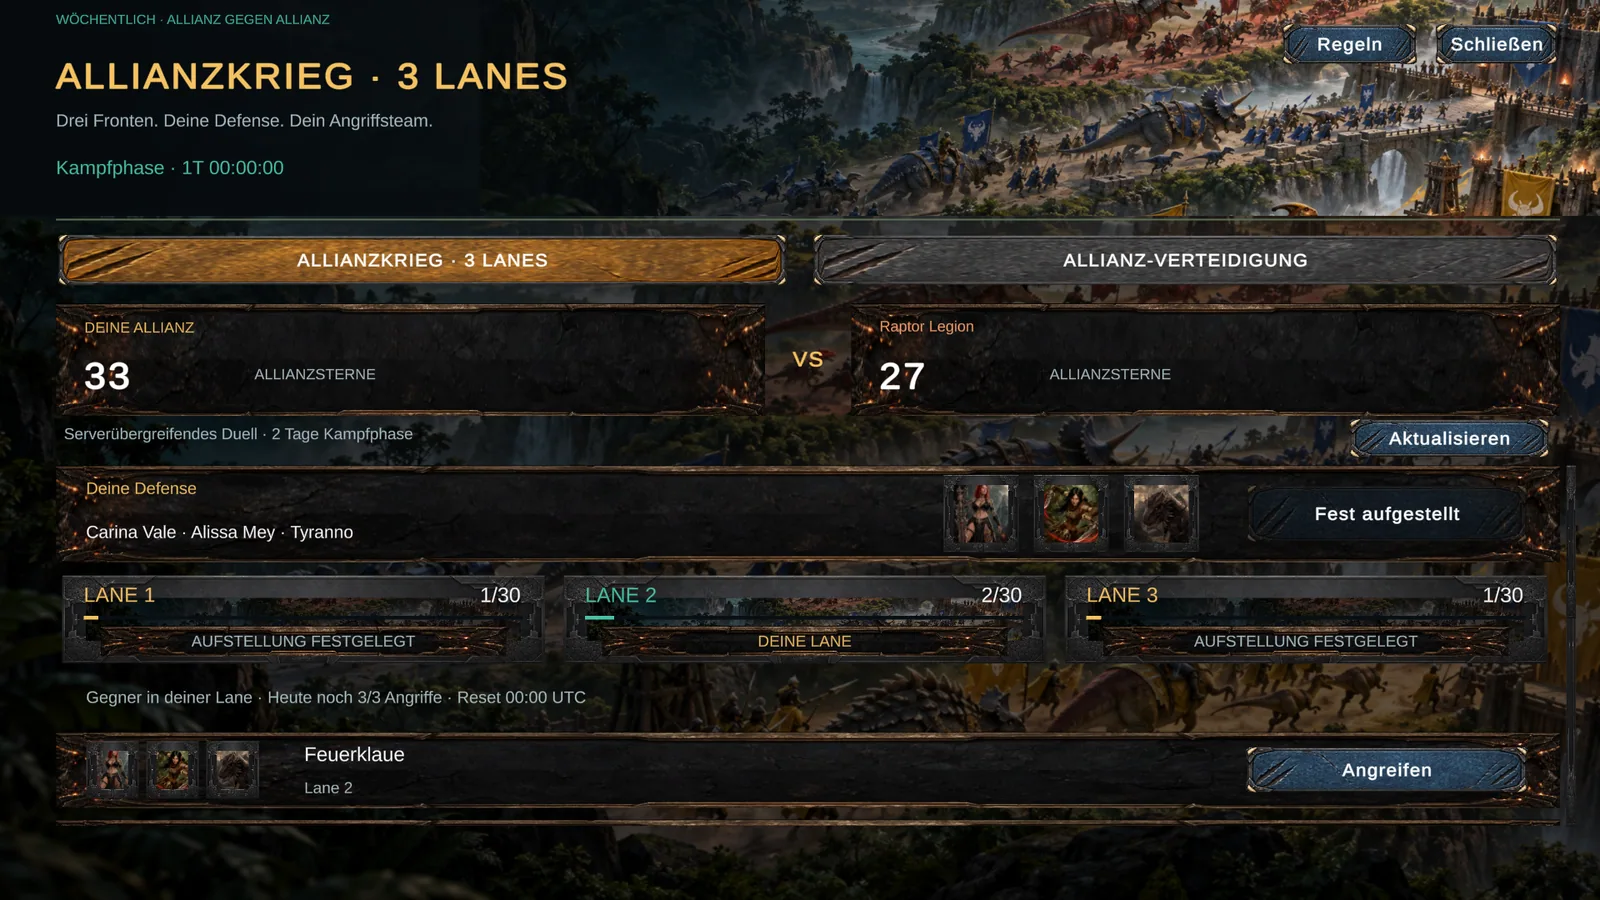
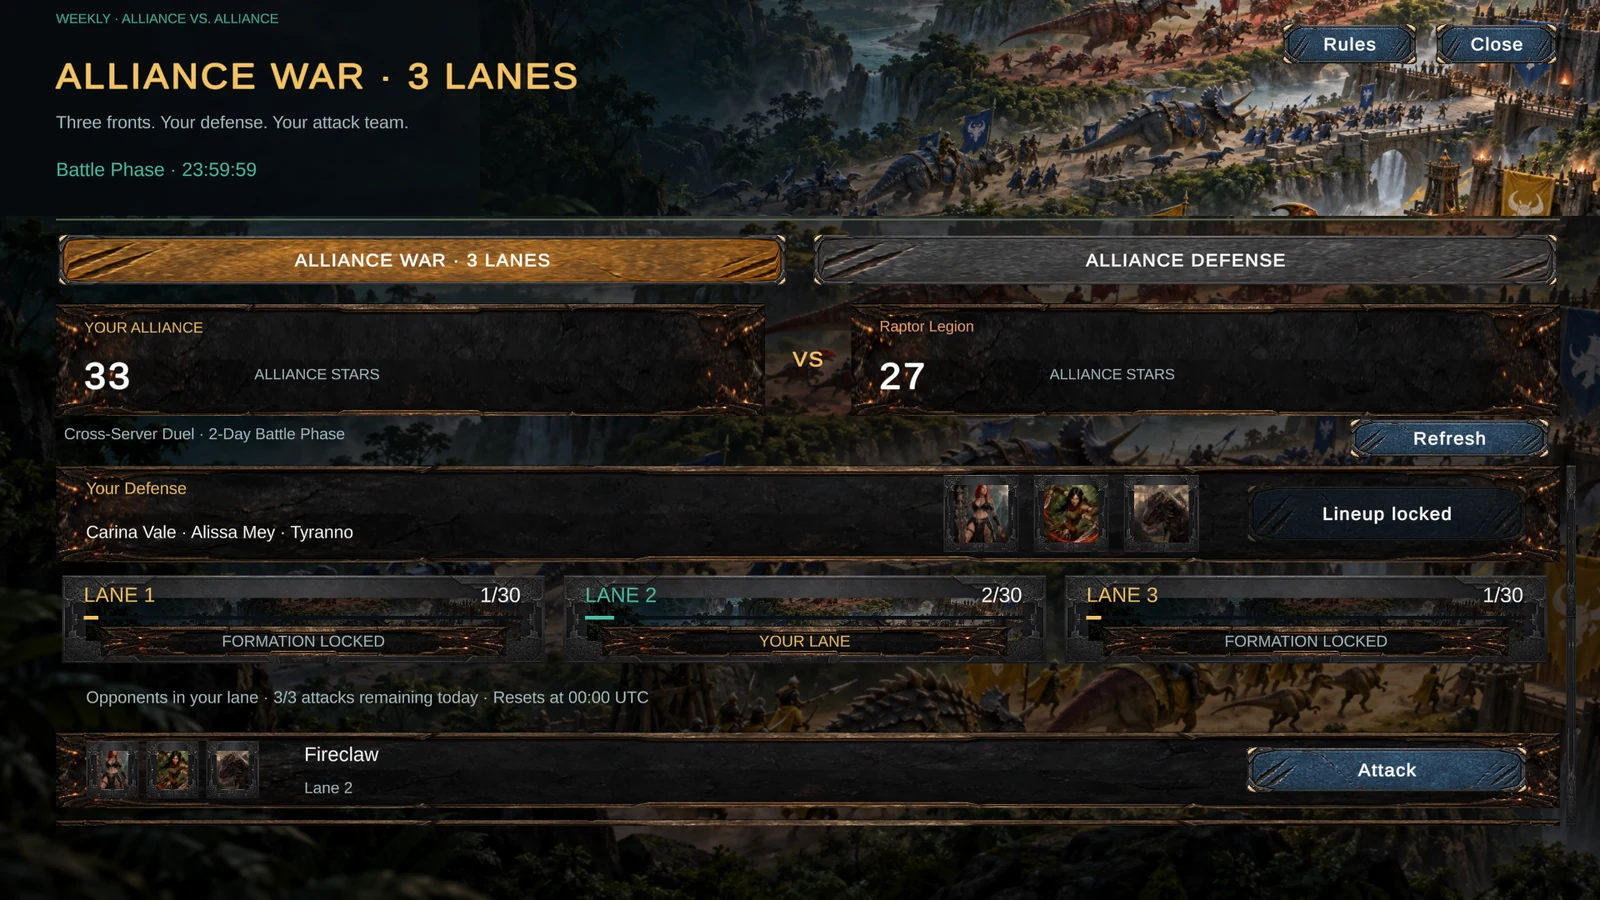
Use an English alliance screenshot on the homepage

diff --git a/artwork/gameplay/README.md b/artwork/gameplay/README.md
@@ -2,8 +2,8 @@
 
 These six development captures are published with the game owner's permission from the website task on 2 November 2026.
 
-Five images are frames from the native Unity gameplay trailer, including its original English captions. The alliance image is an existing game UI capture with sample teams and scores; it uses the German in-game language. No gameplay imagery was generated or retouched for the website.
+Five images are frames from the native Unity gameplay trailer, including its original English captions. The alliance image was recaptured in Unity on 6 November 2026 using the game's English localization and sample teams and scores. No gameplay imagery was generated or retouched for the website.
 
-`provenance.json` records the project-relative sources, video timestamps, source SHA-256 hashes and hashes of both proportional WebP sizes. The 480-pixel files serve the selector thumbnails; 1600-pixel files serve the selected image and full screenshot link. Generated review PNGs remain local.
+`provenance.json` records the project-relative sources, video timestamps, source SHA-256 hashes and hashes of both proportional WebP sizes. The 480-pixel files serve the selector thumbnails; 1600-pixel files serve the selected image and full screenshot link. The source PNG for the alliance capture remains in the game workspace.
 
 Game facts were checked against `Docs/LiveRounds_2026-09-26.md`, `Docs/LiveArenaSpectators_2026-10-09.md` and the alliance event client services in the game project. The planned December 2026 Android release was confirmed by the owner in this session; it is a target, not a fixed launch date.
